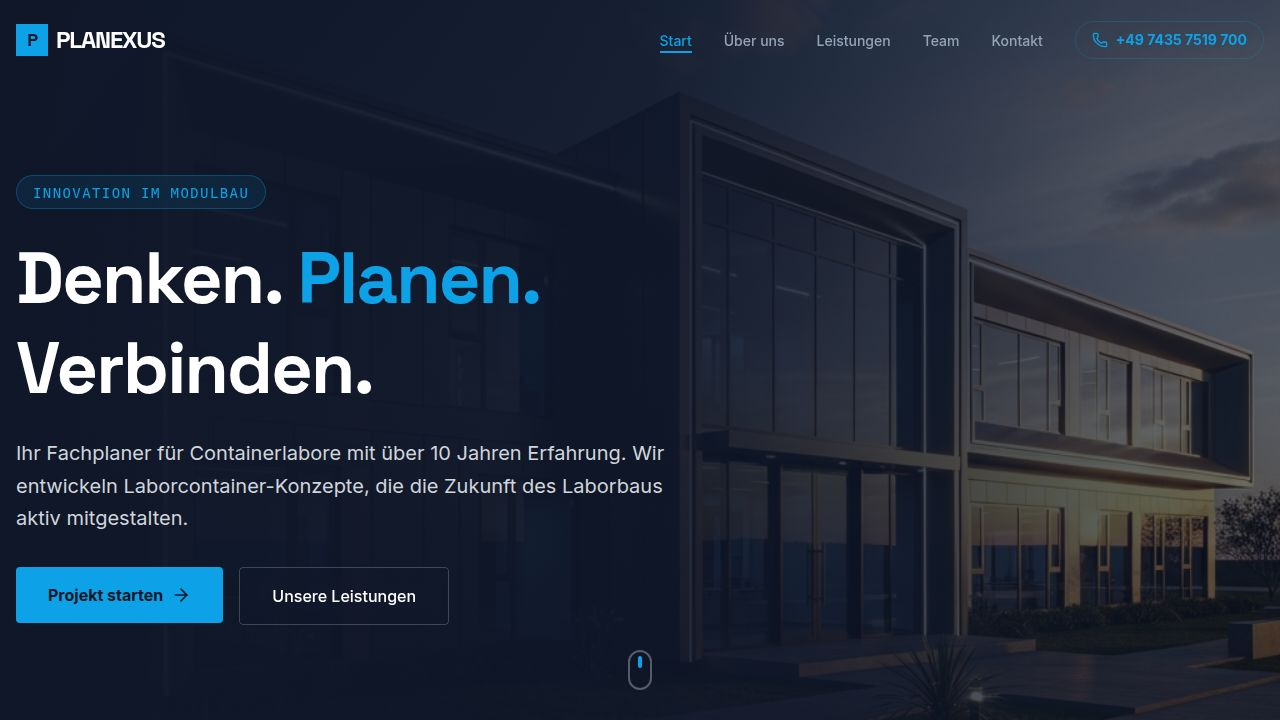
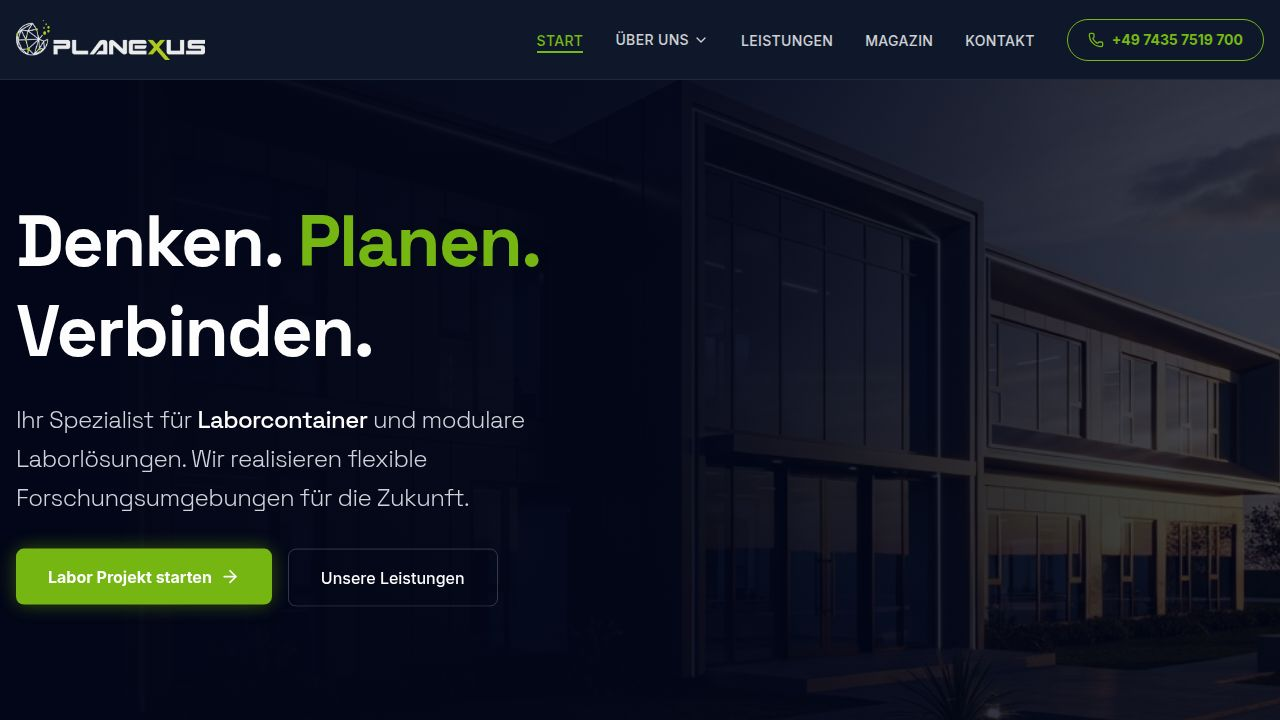
Add "Team" as a submenu under "About Us" in navigation
Integrates a dropdown menu for "About Us" on desktop, including "About Us" and "Team" links. Updates mobile navigation to group these links under "About Us".

Replit-Commit-Author: Agent
Replit-Commit-Session-Id: fa74fec4-5bf0-4c41-8153-e1e5d400dad8
Replit-Commit-Checkpoint-Type: full_checkpoint
Replit-Commit-Event-Id: ed605c4b-f01e-491e-8f21-0d3186c7719a
Replit-Commit-Screenshot-Url: https://storage.googleapis.com/screenshot-production-us-central1/fd76aba6-7a99-4c65-995d-a4fd8c5b059b/fa74fec4-5bf0-4c41-8153-e1e5d400dad8/LRMBDw6
Replit-Helium-Checkpoint-Created: true

diff --git a/client/src/components/layout/Navbar.tsx b/client/src/components/layout/Navbar.tsx
@@ -1,5 +1,5 @@
 import { Link, useLocation } from "wouter";
-import { Menu, X, Phone, Mail } from "lucide-react";
+import { Menu, X, Phone, Mail, ChevronDown } from "lucide-react";
 import { useState, useEffect } from "react";
 import { motion, AnimatePresence } from "framer-motion";
 import { cn } from "@/lib/utils";
@@ -7,6 +7,7 @@ import logo from "@assets/Planexus_Home-e1738171155684_1767361842201.png";
 
 export function Navbar() {
   const [isOpen, setIsOpen] = useState(false);
+  const [aboutOpen, setAboutOpen] = useState(false);
   const [location] = useLocation();
   const [scrolled, setScrolled] = useState(false);
 
@@ -20,11 +21,14 @@ export function Navbar() {
 
   const links = [
     { href: "/", label: "Start" },
-    { href: "/about", label: "Über uns" },
     { href: "/services", label: "Leistungen" },
     { href: "/magazine", label: "Magazin" },
-    { href: "/team", label: "Team" },
     { href: "/contact", label: "Kontakt" },
+  ];
+  
+  const aboutLinks = [
+    { href: "/about", label: "Über uns" },
+    { href: "/team", label: "Team" },
   ];
 
   return (
@@ -49,11 +53,77 @@ export function Navbar() {
 
         {/* Desktop Menu */}
         <div className="hidden lg:flex items-center gap-8">
-          {links.map((link) => (
+          {/* Start Link */}
+          <Link href="/">
+            <a
+              className={cn(
+                "text-sm font-medium transition-colors hover:text-primary relative uppercase tracking-wide",
+                location === "/" ? "text-primary" : "text-white/80 hover:text-white"
+              )}
+            >
+              Start
+              {location === "/" && (
+                <motion.div
+                  layoutId="navbar-indicator"
+                  className="absolute -bottom-1 left-0 right-0 h-0.5 bg-primary"
+                />
+              )}
+            </a>
+          </Link>
+          
+          {/* Über uns Dropdown */}
+          <div 
+            className="relative"
+            onMouseEnter={() => setAboutOpen(true)}
+            onMouseLeave={() => setAboutOpen(false)}
+          >
+            <button
+              className={cn(
+                "text-sm font-medium transition-colors hover:text-primary flex items-center gap-1 uppercase tracking-wide",
+                (location === "/about" || location === "/team") ? "text-primary" : "text-white/80 hover:text-white"
+              )}
+            >
+              Über uns
+              <ChevronDown className={cn("w-4 h-4 transition-transform", aboutOpen && "rotate-180")} />
+            </button>
+            {(location === "/about" || location === "/team") && (
+              <motion.div
+                layoutId="navbar-indicator"
+                className="absolute -bottom-1 left-0 right-0 h-0.5 bg-primary"
+              />
+            )}
+            
+            <AnimatePresence>
+              {aboutOpen && (
+                <motion.div
+                  initial={{ opacity: 0, y: 10 }}
+                  animate={{ opacity: 1, y: 0 }}
+                  exit={{ opacity: 0, y: 10 }}
+                  className="absolute top-full left-0 mt-2 bg-white rounded-lg shadow-xl border border-gray-100 py-2 min-w-[160px] z-50"
+                >
+                  {aboutLinks.map((link) => (
+                    <Link key={link.href} href={link.href}>
+                      <a
+                        className={cn(
+                          "block px-4 py-2 text-sm font-medium transition-colors hover:bg-primary/10 hover:text-primary",
+                          location === link.href ? "text-primary bg-primary/5" : "text-slate-700"
+                        )}
+                      >
+                        {link.label}
+                      </a>
+                    </Link>
+                  ))}
+                </motion.div>
+              )}
+            </AnimatePresence>
+          </div>
+          
+          {/* Other Links */}
+          {links.slice(1).map((link) => (
             <Link key={link.href} href={link.href}>
               <a
                 className={cn(
-                  "text-sm font-medium transition-colors hover:text-primary relative group uppercase tracking-wide",
+                  "text-sm font-medium transition-colors hover:text-primary relative uppercase tracking-wide",
                   location === link.href ? "text-primary" : "text-white/80 hover:text-white"
                 )}
               >
@@ -94,8 +164,40 @@ export function Navbar() {
             exit={{ opacity: 0, height: 0 }}
             className="lg:hidden bg-white border-b border-gray-100 overflow-hidden shadow-xl"
           >
-            <div className="container mx-auto px-4 py-6 flex flex-col gap-4">
-              {links.map((link) => (
+            <div className="container mx-auto px-4 py-6 flex flex-col gap-2">
+              {/* Start */}
+              <Link href="/">
+                <a
+                  onClick={() => setIsOpen(false)}
+                  className={cn(
+                    "text-lg font-medium py-3 border-b border-gray-50",
+                    location === "/" ? "text-primary" : "text-slate-700"
+                  )}
+                >
+                  Start
+                </a>
+              </Link>
+              
+              {/* Über uns Section */}
+              <div className="border-b border-gray-50">
+                <p className="text-xs uppercase tracking-wider text-gray-400 pt-3 pb-1">Über uns</p>
+                {aboutLinks.map((link) => (
+                  <Link key={link.href} href={link.href}>
+                    <a
+                      onClick={() => setIsOpen(false)}
+                      className={cn(
+                        "block text-lg font-medium py-2 pl-4",
+                        location === link.href ? "text-primary" : "text-slate-700"
+                      )}
+                    >
+                      {link.label}
+                    </a>
+                  </Link>
+                ))}
+              </div>
+              
+              {/* Other Links */}
+              {links.slice(1).map((link) => (
                 <Link key={link.href} href={link.href}>
                   <a
                     onClick={() => setIsOpen(false)}
@@ -108,6 +210,7 @@ export function Navbar() {
                   </a>
                 </Link>
               ))}
+              
               <div className="flex flex-col gap-4 mt-4 pt-4 border-t border-gray-100">
                  <a href="tel:+4974357519700" className="flex items-center gap-3 text-slate-600 hover:text-primary">
                     <Phone className="w-5 h-5 text-primary" /> +49 7435 7519 700
